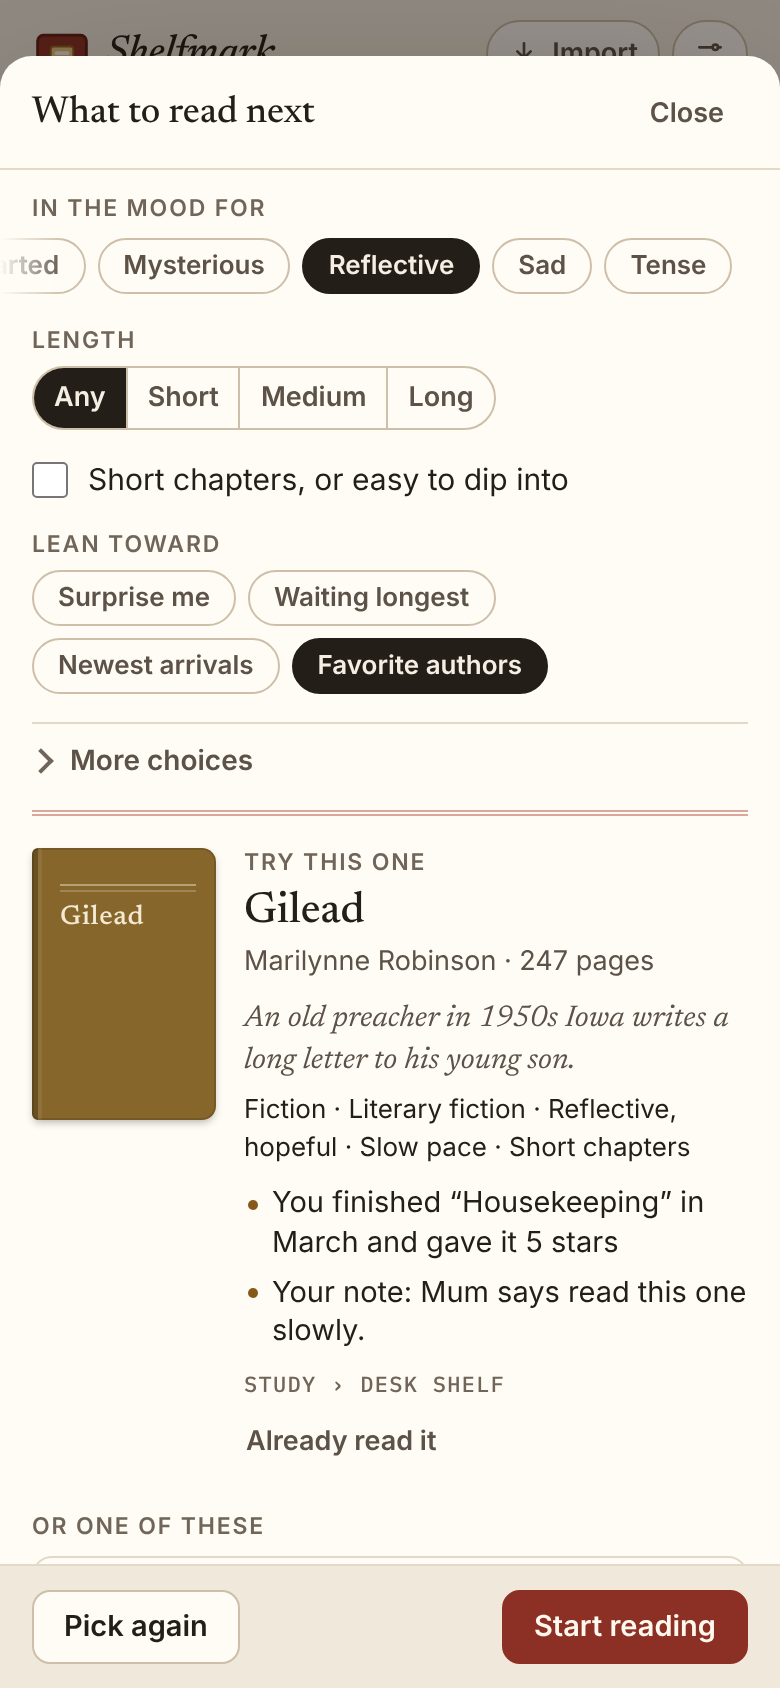
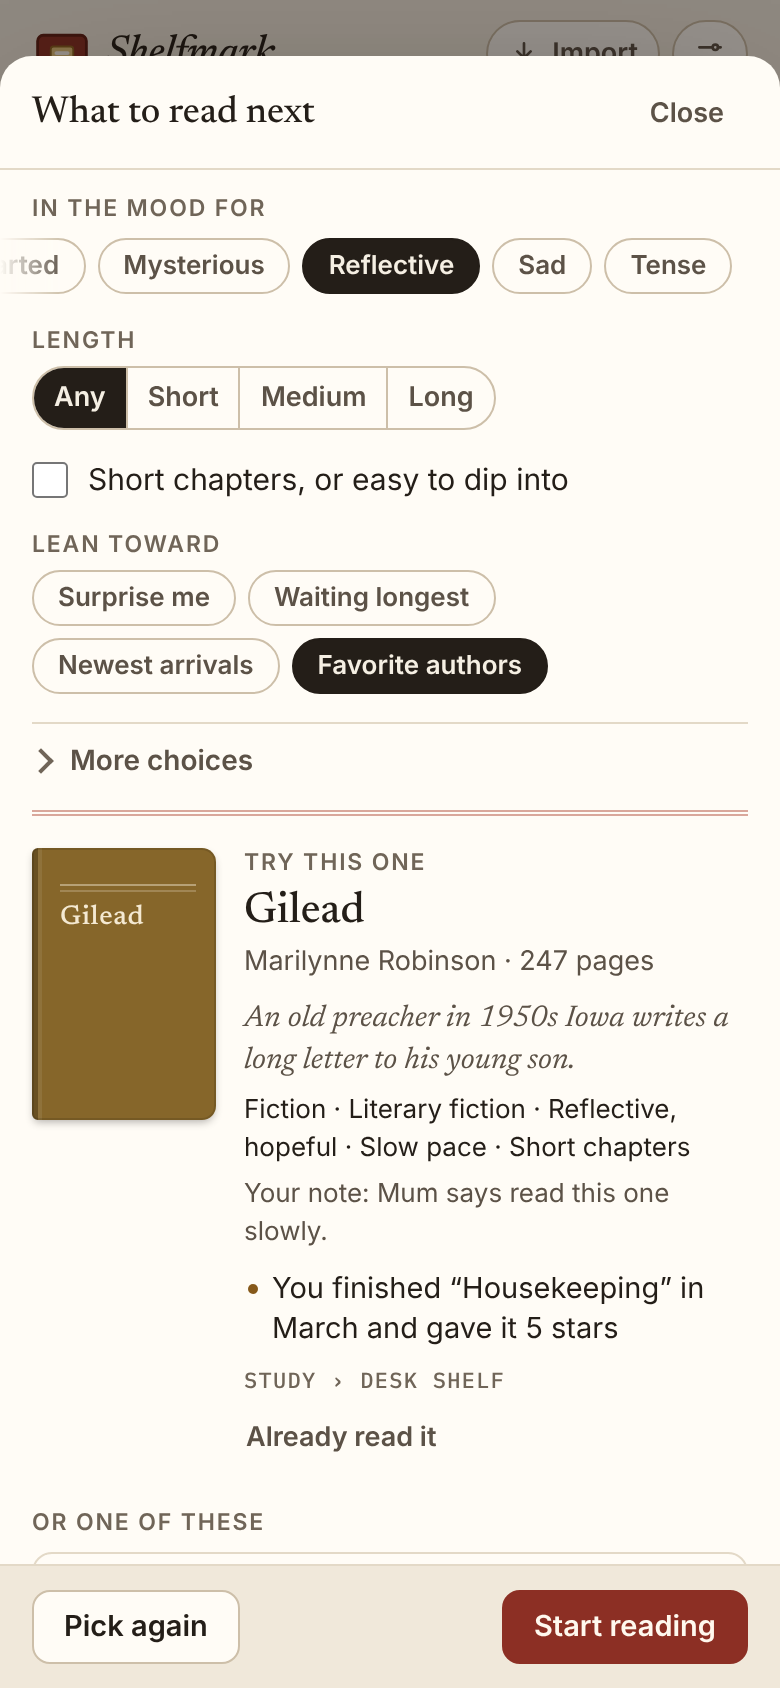
Show a pick's note on a line of its own, not as a reason
A suggestion listed the first line of the book's note among its reasons
("Your note: …"). That read well for "read it slowly", but many notes are
about the copy, its binding or where it came from, and those read oddly
as reasons to read it. The note now has a line of its own under the
book's details, in their small type, and the reasons list keeps only
reasons. The README and its picture of What to read next say so. This
answers "Notes shown as reasons in What to read next".

Claude-Session: https://claude.ai/code/session_01LTHvo7Z5hkZa4XvN3zH5Na

Changed region(s): [[0.3077, 0.6777, 0.9538, 0.8626], [0.0308, 0.8934, 0.3385, 0.9242]]

diff --git a/index.html b/index.html
@@ -459,6 +459,7 @@ details.more .fs{padding:2px 12px 12px}
 .nx-morein{display:grid;gap:14px;padding-top:12px}
 .nx-blurb{font:italic 15px/1.4 var(--serif);color:var(--ink2);margin-top:4px}
 .nx-dl{font-size:13px;color:var(--ink);margin-top:2px}
+.nx-note{font-size:13px;color:var(--ink2);margin-top:2px;overflow-wrap:anywhere}
 .nx-alt .nx-w{display:-webkit-box;-webkit-line-clamp:2;-webkit-box-orient:vertical;overflow:hidden}
 /* on a phone the moods are one row to swipe along, edge to edge (with a mouse they wrap) */
 @media (max-width:640px) and (pointer:coarse){
@@ -1479,7 +1480,7 @@ body.locked .toast{bottom:calc(12px + var(--above,env(safe-area-inset-bottom,0px
   // one date (a library catalogued in one go), and then when a book was added tells it from none of the others. A volume
   // of a set says first that it's next, after the one read (kin, from kinOf).
   function nextWhy(b, c, fans, now, span, kin) {
-    var fan = '', when = '', f = fanOf(b, fans), note = (b.notes || '').split('\n')[0], next = kin ? after(b, kin) : '';
+    var fan = '', when = '', f = fanOf(b, fans), next = kin ? after(b, kin) : '';
     // With the day a book was finished, it says when: "You finished “Housekeeping” in March and gave it 5 stars".
     if (b.status === 'read') fan = 'A reread: you ' + (finished(b) ? 'finished it' + finishedIn(b, now) + ' and ' : '') + 'gave it ' + plural(b.rating, 'star');
     else if (f && (c.lean === 'loved' || fondness(f) >= 3)) {
@@ -1497,8 +1498,13 @@ body.locked .toast{bottom:calc(12px + var(--above,env(safe-area-inset-bottom,0px
     }
     var why = c.lean === 'oldest' || c.lean === 'newest' ? [when, fan] : [fan, when];
     if (next) why.unshift('Next in the set: you’ve read ' + next);
-    if (note) why.push('Your note: ' + (note.length > 140 ? note.slice(0, 139).trim() + '…' : note));
     return why.filter(Boolean);
+  }
+  // The first line of a book's note, for a line of its own under the pick's details. A note is as often about the copy
+  // (its binding, where it came from) as about reading it, so it isn't one of the reasons.
+  function nextNote(b) {
+    var note = (b.notes || '').split('\n')[0].trim();
+    return note ? 'Your note: ' + (note.length > 140 ? note.slice(0, 139).trim() + '…' : note) : '';
   }
   // Up to three suggestions, drawn by weight from the books not yet shown (skip: {id: 1}), then from the rest.
   // fresh says how many were new; none means every match has been shown. kin (kinOf(all)) can be passed in.
@@ -1541,7 +1547,7 @@ body.locked .toast{bottom:calc(12px + var(--above,env(safe-area-inset-bottom,0px
       rereadMatch: c.reread || !narrowed(c) ? 0 : nextPool(all, Object.assign({}, c, { reread: true }), kin).length - pool.length,
       easings: pool.length ? [] : easings(all, c, kin),
       browsed: c.browse ? 0 : nextBooks(all, Object.assign({}, c, { browse: true }), function (b) { return b.way === 'browse'; }, kin).length,
-      picks: picks.map(function (b) { return { b: b, why: nextWhy(b, c, fans, now, span, kin) }; })
+      picks: picks.map(function (b) { return { b: b, why: nextWhy(b, c, fans, now, span, kin), note: nextNote(b) }; })
     };
   }
 
@@ -3297,6 +3303,7 @@ body.locked .toast{bottom:calc(12px + var(--above,env(safe-area-inset-bottom,0px
         (meta(b) ? '<span class="bk-a">' + esc(meta(b)) + '</span>' : '') +
         (b.blurb ? '<span class="nx-blurb">' + esc(b.blurb) + '</span>' : '') +
         (dl ? '<span class="nx-dl">' + dl + '</span>' : '') +
+        (t.note ? '<span class="nx-note">' + esc(t.note) + '</span>' : '') +
         (t.why.length ? '<ul class="nx-why">' + t.why.map(function (w) { return '<li>' + esc(w) + '</li>'; }).join('') + '</ul>' : '') +
         '<span class="loc">' + esc(where(b) || 'Not shelved yet') + '</span>' +
         (b.status === 'read' ? '' : '<button class="btn sm quiet nx-done" type="button" id="nxRead">Already read it</button>') + '</div></div>' +

diff --git a/test/library.test.js b/test/library.test.js
@@ -23,7 +23,7 @@ function fn(name) {
   }
 }
 const S = new Function('window', [logic, fn('linkText'), fn('parseIncoming'),
-  'return { coverQuery, pickCover, monogram, isbn13, cleanBook, cleanDoc, mergeDocs, canon, live, surname, titleKey, dupIndex, findDup, cleanBatch, shelve, place, placeIndex, placed, shelfOrder, finishedOrder, lentOrder, shelfGroups, listText, facetHit, facetName, summaryOf, loanMonths, loanLine, searchWords, keys, searchHit, toCsv, csvCell, linkText, parseIncoming, authorOrder, lengthOf, short, clip, cleanNext, nextPool, nextBooks, volumeOf, kinOf, dealNext, nextDeal, nextNotes, nextOffers, fitNext, cleanDetails, matchDetails, withDetails, detailChanges, newer, indexKeys, lookupKeys, nearDup, authorsKey, statusOf, DETAILS, STATUSES, SHOWN, FORMATS, CONDITIONS, KINDS, WAYS, PACES, CHAPTERS, MOODS, GENRES, BATCH_MAX };'
+  'return { coverQuery, pickCover, monogram, isbn13, cleanBook, cleanDoc, mergeDocs, canon, live, surname, titleKey, dupIndex, findDup, cleanBatch, shelve, place, placeIndex, placed, shelfOrder, finishedOrder, lentOrder, shelfGroups, listText, facetHit, facetName, summaryOf, nextNote, loanMonths, loanLine, searchWords, keys, searchHit, toCsv, csvCell, linkText, parseIncoming, authorOrder, lengthOf, short, clip, cleanNext, nextPool, nextBooks, volumeOf, kinOf, dealNext, nextDeal, nextNotes, nextOffers, fitNext, cleanDetails, matchDetails, withDetails, detailChanges, newer, indexKeys, lookupKeys, nearDup, authorsKey, statusOf, DETAILS, STATUSES, SHOWN, FORMATS, CONDITIONS, KINDS, WAYS, PACES, CHAPTERS, MOODS, GENRES, BATCH_MAX };'
 ].join('\n'))(globalThis);
 
 let failed = 0, passed = 0;
@@ -421,8 +421,16 @@ eq(['1984', '2001: A Space Odyssey', '100 Years of Solitude', 'Fahrenheit 451', 
   const why = (lean, id) => S.dealNext(lib, S.cleanNext({ lean }), rng(1), { old: id !== 'old' ? 1 : 0, new: id !== 'new' ? 1 : 0, lg2: id !== 'lg2' ? 1 : 0, nop: id !== 'nop' ? 1 : 0 }, now).picks[0].why;
   eq(why('', 'lg2'), ['You gave “The Dispossessed” 5 stars', 'In your library since ' + new Date(2024, 5, 1).toLocaleDateString(undefined, { month: 'long', year: 'numeric' })], 'a book by an author you rated highly says so, and one over two years on the shelf says how long');
   check(/^Waiting longest of these: in your library since .*2019$/.test(why('oldest', 'old')[0]), 'the longest-waiting book says so, with the month it was added');
-  eq(why('', 'new'), ['New arrival: added 5 days ago', 'Your note: Sam says start here'], 'a recent arrival says so, and the first line of a note comes along');
+  eq(why('', 'new'), ['New arrival: added 5 days ago'], 'a recent arrival says so, and its note isn\'t one of the reasons');
   eq(why('', 'nop'), [], 'nothing special to say → no reasons');
+  {
+    // A note goes on a line of its own: its first line, cut at 140 characters.
+    const note = id => S.dealNext(lib, S.cleanNext({}), rng(1), { old: id !== 'old' ? 1 : 0, new: id !== 'new' ? 1 : 0, lg2: id !== 'lg2' ? 1 : 0, nop: id !== 'nop' ? 1 : 0 }, now).picks[0].note;
+    eq([note('new'), note('nop')], ['Your note: Sam says start here', ''], 'the pick carries the first line of its note, and nothing without one');
+    eq(S.nextNote({ notes: '  Spine is loose  \nFound on a train' }), 'Your note: Spine is loose', 'only the first line, trimmed');
+    eq(S.nextNote({ notes: 'x'.repeat(200) }), 'Your note: ' + 'x'.repeat(139) + '…', 'a long one is cut at 140 characters');
+    eq([S.nextNote({}), S.nextNote({ notes: '\nSecond line only' })], ['', ''], 'no note, or an empty first line, gives no line');
+  }
   {
     // With the day a book was finished, the reason says when: the month this year, the month and year before.
     const month = (y, m, opts) => new Date(y, m - 1, 1).toLocaleDateString(undefined, opts);

diff --git a/sw.js b/sw.js
@@ -9,7 +9,7 @@
 // fingerprint of every file in SHELL: change any of them and test/e2e.mjs fails until FILES is changed to match (it
 // says what to), which changes this file, so every copy is made whole again at once.
 const CACHE = 'shelfmark-v4'; // bump the number when the file list changes
-const FILES = '0889bb27'; // test/e2e.mjs checks this
+const FILES = 'e2bc7dc5'; // test/e2e.mjs checks this
 const SHELL = [
   './', 'index.html', 'carry.js', 'privacy.html', 'icon.svg', 'icon-180.png', 'icon-192.png', 'manifest.webmanifest',
   'fonts/newsreader-latin.woff2', 'fonts/newsreader-latin-ext.woff2', 'fonts/newsreader-vietnamese.woff2',

diff --git a/README.md b/README.md
@@ -9,7 +9,7 @@
   &nbsp;
   <img src="docs/phone-review.png" alt="Add books from Claude: five books from a photo of the hall console table, to be shelved in Hall › Console table, with The Overstory flagged to check for glare over the author and Piranesi unticked because it's already in the library" width="250">
   &nbsp;
-  <img src="docs/phone-next.png" alt="What to read next, for fiction in a reflective mood, leaning toward favorite authors: try Gilead by Marilynne Robinson, an old preacher in 1950s Iowa writing a long letter to his young son; literary fiction, reflective and hopeful, slow, with short chapters; because you finished Housekeeping in March and gave it 5 stars, and your note says to read it slowly; it's on Study › Desk shelf, with Already read it below. Or War and Peace." width="250">
+  <img src="docs/phone-next.png" alt="What to read next, for fiction in a reflective mood, leaning toward favorite authors: try Gilead by Marilynne Robinson, an old preacher in 1950s Iowa writing a long letter to his young son; literary fiction, reflective and hopeful, slow, with short chapters; under that, your note to read it slowly; because you finished Housekeeping in March and gave it 5 stars; it's on Study › Desk shelf, with Already read it below. Or War and Peace." width="250">
 </p>
 
 ## How it works
@@ -44,7 +44,7 @@
   - Lean it toward books **waiting longest** or the **newest arrivals**, once books were added on different days, or toward **favorite authors** (ones whose books you've read and rated highly), once one of theirs is waiting unread. **Surprise me** is a plain random pick. Only the choices that would bring a pick are offered: with Poetry chosen, only the moods, paces, lengths, rooms and tags your poems have.
   - Tick **Include rereads** to bring back books you gave four or five stars; the notes say when one of them would match.
   - When nothing matches, a button puts the choice in the way back to Any ("Any length · 14 books"), or **Clear these choices** starts over.
-  - Each suggestion has its line and details, says why in plain words ("You finished “Housekeeping” in March and gave it 5 stars", "Your note: …"), and which shelf it's on. **Pick again** works through every match before repeating one, and never shows the same pick twice running. **Already read it** marks it Read and picks again, and **Start reading** marks it Reading and says where it is.
+  - Each suggestion has its line and details, the first line of your note on it ("Your note: …") on a line of its own, why in plain words ("You finished “Housekeeping” in March and gave it 5 stars", "Next in the set: you've read Book 1"), and which shelf it's on. **Pick again** works through every match before repeating one, and never shows the same pick twice running. **Already read it** marks it Read and picks again, and **Start reading** marks it Reading and says where it is.
   - Your choices are remembered on each device.
 - **Covers and lookups** from Open Library, only if you turn them on in Settings, or when **Look it up** on a book's card asks first ("This sends the ISBN to openlibrary.org. Turn on lookups?") and you say yes. Covers are found by ISBN, or by title and author for a book without one (so a cover may show another edition), and each cover's id is remembered in the browser. Lookups send the ISBN, title and author, nothing else.
 - **Backups.** Download the whole library as a file, and open it on any device (it merges, after saying how many books it would add, change or remove). There's a spreadsheet (CSV) too, to read or print, with the day each book was finished; it doesn't open back in Shelfmark.
